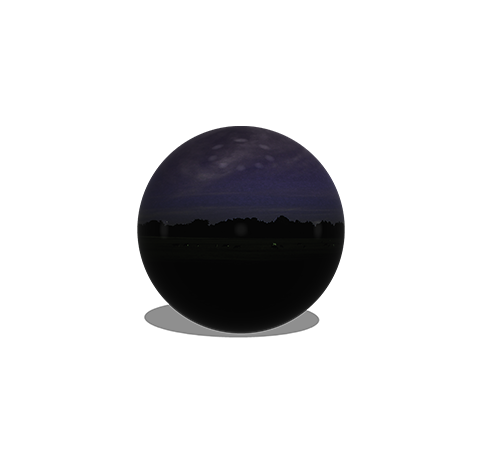
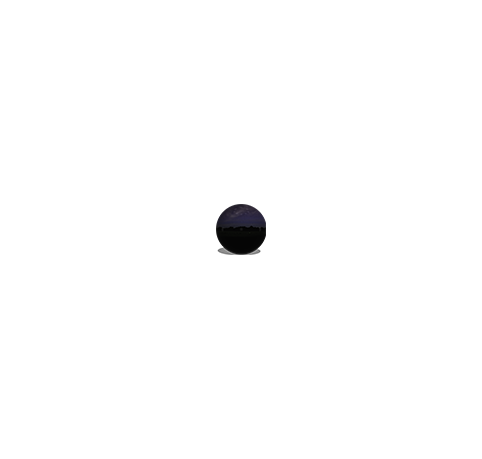
New Plog Entry!

Changed region(s): [[0.2801, 0.2745, 0.7158, 0.7625]]

diff --git a/blog/blog-2026.html b/blog/blog-2026.html
@@ -55,8 +55,53 @@
 
         <div id="blog-entrycont">
 
-            <a href="../oneoffs/july11th/" class="be-rambling"><img id="IMAGE_DELTAPORTAL" src="../assets/blog/jul11portal.png"> </a>
+            <!-- Rhythm Heaven Fever -->
+            <div id="blog-entry" class="be-games">
+                <div id="be-headercont">
+                    <div id="be-bannercont">
 
+                        <div id="be-bannertextcont">
+                            <h1 id="be-bannertitle">Rhythm Heaven Fever</h1>
+                            <div id="be-bannerdesccont">
+                                <h2>2011 Video Game</h2>
+                                <h2>Nintendo</h2>
+                            </div>
+                        </div>
+
+                        <div id="be-bannerback" style="background-image: url(../assets/blog/banners/rhfever.png);"></div>
+
+                    </div>
+                </div>
+
+                <div id="be-body">
+                    <p id="be-bodytext">
+                        When I said I wanted to play an actually fun game in the mind over mutant entry, this is what I was talking about. I hadn't played it yet despite being a general fan of the series - I'd beaten megamix and 'silver' (the fan-translated GBA game), and spent a lot of time on the DS game to the point of almost getting all the perfects (#1 Moai Doo-Wop hater). But I was saving this one for a special occasion. And a new rhythm heaven game is out, so what better occasion is there?
+                        <br><br>
+                        I had very high expectations after enjoying the other games so much, given that this is the one I feel like most people talk about. And for me, it really lived up. The minigames are all really good, the music is I think the best it's been in the whole series, and the graphics are pretty good (though it's not in HD, even on an emulator).
+                        <br><br>
+                        I'm surprised, but my favorite rhythm game ended up being Cheer Readers 2! Something about the vocal cues, especially when they start running off of each other super quick. Remix 9 is also probably my favorite in the whole series. That's mostly because it's song is crazy good, but it's also got some cool fast-paced switching between games which is fun.
+                        <br><br>
+                        I got all the medals on the first go around without much difficulty, which felt good. I also picked up a couple of perfects (just over 15), but I'm not sure if I'll take the time to get the rest. Depends on how many times I'm willing to retry some of those games <b title="I~~ Suppose~ Hey!">I suppose.</b>
+                        <br><br>
+                        After this, I've got nothing left in the backlog, so to speak. I've only got 1 or 2 crash games left, depending on how you count, it, beyond that... Maybe it's time to pick up some more ps2 games? Katamari has been on my list for a while.. or I could go into my steam unplayed-s and finally continue Of The Devil?
+                    </p>
+
+                    
+                    
+    
+                    
+                </div>
+
+
+
+                <div id="be-footer">
+                    <p id="be-rating"> 9.5/10, I almost teared up when I booted the game up and played Hole In One, and I don't know why.</p>
+
+                    <p id="be-timestamp"> July 11th </p>
+                </div>
+            </div>
+
+            <a href="../oneoffs/july11th/" class="be-rambling"><img id="IMAGE_DELTAPORTAL" src="../assets/blog/jul11portal.png"> </a>
 
             <!-- Crash: Mind over Mutant -->
             <div id="blog-entry" class="be-games">

diff --git a/changelog/index.html b/changelog/index.html
@@ -47,7 +47,7 @@
                 <p id="ccomp-text"> > <bc id="ccomp-blinker">▂</b></p>
 
                 <p id="ccomp-text">
-                > 2026-07-11:       
+                > 2026-07-11:  + New Plog Entry!    
                 </p>
 
                 <p id="ccomp-text">
